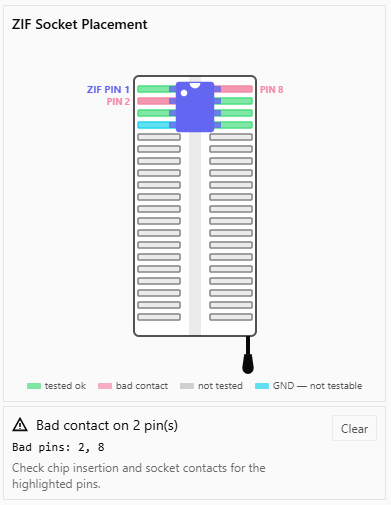
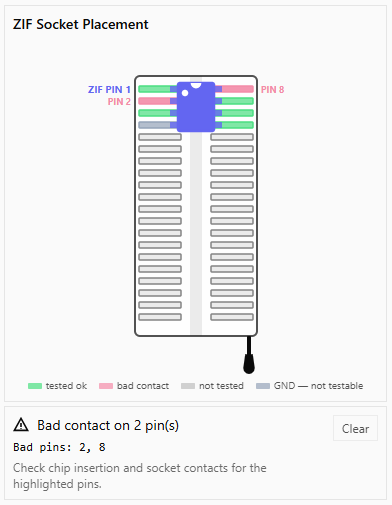
Report GUI gate aborts once via terse marker, not double-logged failures [skip ci]

diff --git a/gui/src/lib/stores/operations.ts b/gui/src/lib/stores/operations.ts
@@ -143,7 +143,14 @@ async function runOp(
   } catch (e) {
     const elapsed = Date.now() - start;
     const errMsg = String(e);
-    deferLog("error", `${name} failed after ${formatDuration(elapsed)}: ${errMsg}`);
+    // Pre-op gates (pin contact, chip ID) log their own detail and return
+    // a terse "aborted (gate)" marker — the op never ran, so report an
+    // abort rather than re-logging the reason as a failure.
+    if (errMsg.startsWith("aborted (")) {
+      deferLog("warn", `${name} ${errMsg}`);
+    } else {
+      deferLog("error", `${name} failed after ${formatDuration(elapsed)}: ${errMsg}`);
+    }
     // If the error looks USB-related, advise the user to replug
     const usbKeywords = ["STALL", "NoDevice", "LIBUSB_ERROR_NO_DEVICE",
       "LIBUSB_ERROR_IO", "LIBUSB_ERROR_PIPE", "DeviceNotFound",

diff --git a/gui/src-tauri/src/commands.rs b/gui/src-tauri/src/commands.rs
@@ -145,10 +145,10 @@ fn run_pin_check_if_enabled(
             &format!("Pin contact check failed: {detail}. Operation aborted."),
         );
         emit_pin_test_result(window, &dto);
-        return Err(format!(
-            "Pin contact check failed: bad contact on {} pin(s): {}",
-            count, pin_list
-        ));
+        // Detail was already logged above; return the abort marker so
+        // runOp reports "X aborted (pin contact check)" instead of
+        // re-logging the full reason as an op failure.
+        return Err("aborted (pin contact check)".to_string());
     }
     Ok(())
 }
@@ -1265,7 +1265,7 @@ pub async fn do_read(
                     }
                     Err(e) => {
                         emit_log(&window_clone, "error", &format!("Chip ID check failed: {}", e));
-                        return Err(e.to_string());
+                        return Err("aborted (chip ID check)".to_string());
                     }
                 }
             }
@@ -1390,7 +1390,7 @@ pub async fn read_chip_to_bytes(
                     }
                     Err(e) => {
                         emit_log(&window_clone, "error", &format!("Chip ID check failed: {}", e));
-                        return Err(e.to_string());
+                        return Err("aborted (chip ID check)".to_string());
                     }
                 }
             }
@@ -1621,7 +1621,7 @@ pub async fn do_write(
                             "error",
                             &format!("Chip ID check failed: {}", e),
                         );
-                        return Err(e.to_string());
+                        return Err("aborted (chip ID check)".to_string());
                     }
                 }
             }
@@ -1804,7 +1804,7 @@ pub async fn do_batch_write_chip(
                             "error",
                             &format!("Chip ID check failed: {}", e),
                         );
-                        return Err(e.to_string());
+                        return Err("aborted (chip ID check)".to_string());
                     }
                 }
             }
@@ -2086,7 +2086,7 @@ pub async fn do_write_bytes(
                             "error",
                             &format!("Chip ID check failed: {}", e),
                         );
-                        return Err(e.to_string());
+                        return Err("aborted (chip ID check)".to_string());
                     }
                 }
             }
@@ -2238,7 +2238,7 @@ pub async fn do_verify(
                             "error",
                             &format!("Chip ID check failed: {}", e),
                         );
-                        return Err(e.to_string());
+                        return Err("aborted (chip ID check)".to_string());
                     }
                 }
             }
@@ -2329,7 +2329,7 @@ pub async fn do_erase(
                             "error",
                             &format!("Chip ID check failed: {}", e),
                         );
-                        return Err(e.to_string());
+                        return Err("aborted (chip ID check)".to_string());
                     }
                 }
             }

diff --git a/CHANGELOG.md b/CHANGELOG.md
@@ -9,6 +9,10 @@ and this project adheres to [Semantic Versioning](https://semver.org/spec/v2.0.0
 
 ## [Unreleased]
 
+### Fixed
+
+- **GUI: gate aborts no longer double-logged as failures** — a pin-contact or chip-ID pre-op gate used to emit its reason and then appear again as `Read failed: Pin contact check failed: …` from the operation wrapper. Gates now return a terse abort marker and the log shows a single `Read aborted (pin contact check)`-style line, matching the TUI.
+
 ### Added
 
 - **GND pins shown as untestable, not untested** — `PinTestResult` now carries `untestable_pins` (the pin map's `<gnd>` table, in device-pin numbering). Ground pins can't be contact-tested — a pin held low by the die reads grounded whether contact is good or not — so both UIs now show them distinctly instead of conflating "skipped by design" with "empty" or "good": neutral slots (white in the TUI, gray in the GUI — a hue with no ok/bad severity) + a GND legend entry on the ZIF diagrams, and the TUI strip says "all testable pins OK" when GND pins were skipped. (A floating GND still fails every other pin — coverage is implicit.)

diff --git a/docs/GUI-INTERNALS.md b/docs/GUI-INTERNALS.md
@@ -148,6 +148,14 @@ the device has no pin-map data. SPI autodetect runs the pin check
 automatically on supported models (no checkbox) — autodetect is aborted
 if bad pins are found, since poor contact produces garbage JEDEC IDs.
 
+**Abort reporting:** gate failures (pin check, chip-ID check) emit their
+detail once at warn/error level, then return a terse
+`"aborted (<gate>)"` marker string. `runOp` in `operations.ts` detects
+the `aborted (` prefix and logs `<op> aborted (<gate>)` at warn level —
+without it the frontend would re-log the whole gate reason as
+`<op> failed: …`, double-reporting and mislabeling a never-ran op as a
+failure. Keep new pre-op gates on the same marker convention.
+
 **Model support:** TL866II+ and T48. The backend returns
 `UnsupportedOperation` on other models and the button is disabled with
 a tooltip.
